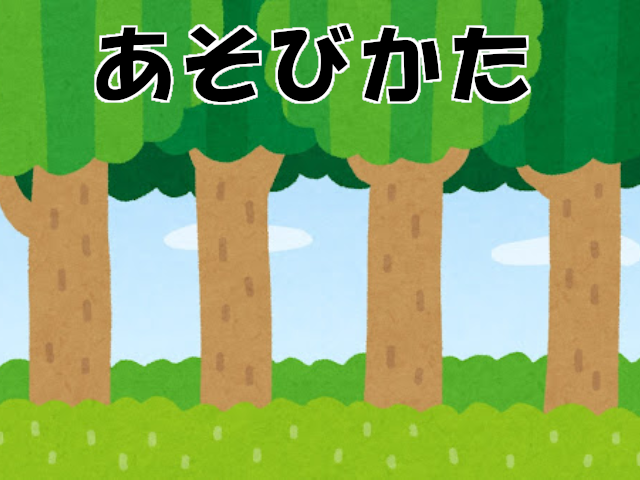
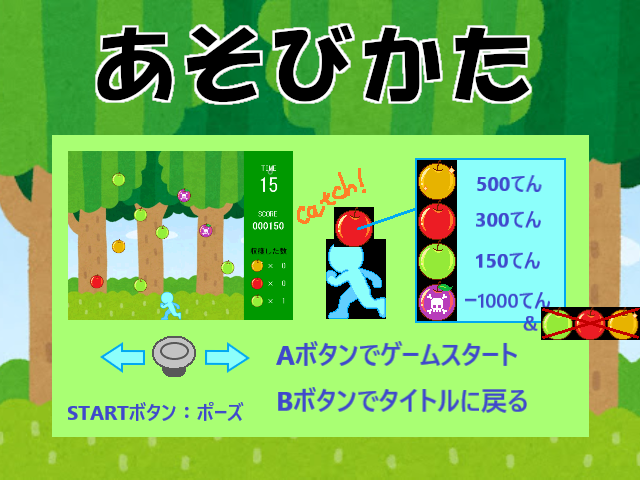
ヘルプ画像を追加しました

diff --git a/applegame/applegame/main.cpp b/applegame/applegame/main.cpp
@@ -239,9 +239,9 @@ void DrawRanking(void) {
 	DrawGraph(0, 0, g_RankingImage, FALSE);
 
 	//ランキング一覧を表示
-	SetFontSize(18);
+	SetFontSize(30);
 	for (int i = 0; i < RANKING_DATA; i++) {
-		DrawFormatString(50, 170 + i * 25, 0xffffff, "%2d %-10s %10d", g_Ranking[i].no, g_Ranking[i].name, g_Ranking[i].score);
+		DrawFormatString(150, 170 + i * 25, 0xffffff, "%2d %-10s %10d", g_Ranking[i].no, g_Ranking[i].name, g_Ranking[i].score);
 	}
 
 	DrawString(100, 450, "---- PRESS B BUTTON TO TITLE ----", 0xffffff, 0);
@@ -251,8 +251,13 @@ void DrawRanking(void) {
 //ゲームヘルプ描画
 void DrawHelp(void) {
 
-	//Bでメニューに戻る
-	if (!(g_OldKey.Buttons[XINPUT_BUTTON_B]) && g_NowKey.Buttons[XINPUT_BUTTON_B]) {
+	
+	if (!(g_OldKey.Buttons[XINPUT_BUTTON_A]) && g_NowKey.Buttons[XINPUT_BUTTON_A]) {
+		//Aでゲームスタート
+		g_GameState = 1;
+	}
+	else if (!(g_OldKey.Buttons[XINPUT_BUTTON_B]) && g_NowKey.Buttons[XINPUT_BUTTON_B]) {
+		//Bでメニューに戻る
 		g_GameState = 0;
 		PlaySoundMem(g_selectSE, DX_PLAYTYPE_BACK, TRUE);
 	}
@@ -260,7 +265,7 @@ void DrawHelp(void) {
 	//タイトル画像表示
 	DrawGraph(0, 0, g_HelpImage, FALSE);
 
-	SetFontSize(16);
+	/*SetFontSize(16);
 	DrawString(20, 120, "- HELP -", 0xffffff, 0);
 
 	DrawString(20, 160, "障害物を避けながら", 0xffffff, 0);
@@ -273,7 +278,7 @@ void DrawHelp(void) {
 	DrawGraph(20, 335, g_Item[1], TRUE);
 	DrawString(20, 385, "耐久を回復できる", 0xffffff, 0);
 	DrawString(20, 405, "無傷なら燃料を少し回復できる", 0xffffff, 0);
-	DrawString(150, 450, "---- PRESS B BUTTON TO TITLE ----", 0xffffff, 0);
+	DrawString(150, 450, "---- PRESS B BUTTON TO TITLE ----", 0xffffff, 0);*/
 
 }
 
@@ -528,7 +533,7 @@ void SortRanking(void)
 	RankingData work;
 
 	// 選択法ソート
-	for (i = 0; i < 9; i++) {
+	for (i = 0; i < 4; i++) {
 		for (j = i + 1; j < RANKING_DATA; j++) {
 			if (g_Ranking[i].score <= g_Ranking[j].score) {
 				work = g_Ranking[i];
@@ -539,13 +544,13 @@ void SortRanking(void)
 	}
 
 	// 順位付け
-	for (i = 0; i < 10; i++) {
+	for (i = 0; i < 5; i++) {
 		g_Ranking[i].no = 1;
 	}
 	// 得点が同じ場合は、同じ順位とする
 	// 同順位があった場合の次の順位はデータ個数が加算された順位とする
-	for (i = 0; i < 9; i++) {
-		for (j = i + 1; j < 10; j++) {
+	for (i = 0; i < 4; i++) {
+		for (j = i + 1; j < 5; j++) {
 			if (g_Ranking[i].score > g_Ranking[j].score) {
 				g_Ranking[j].no++;
 			}
